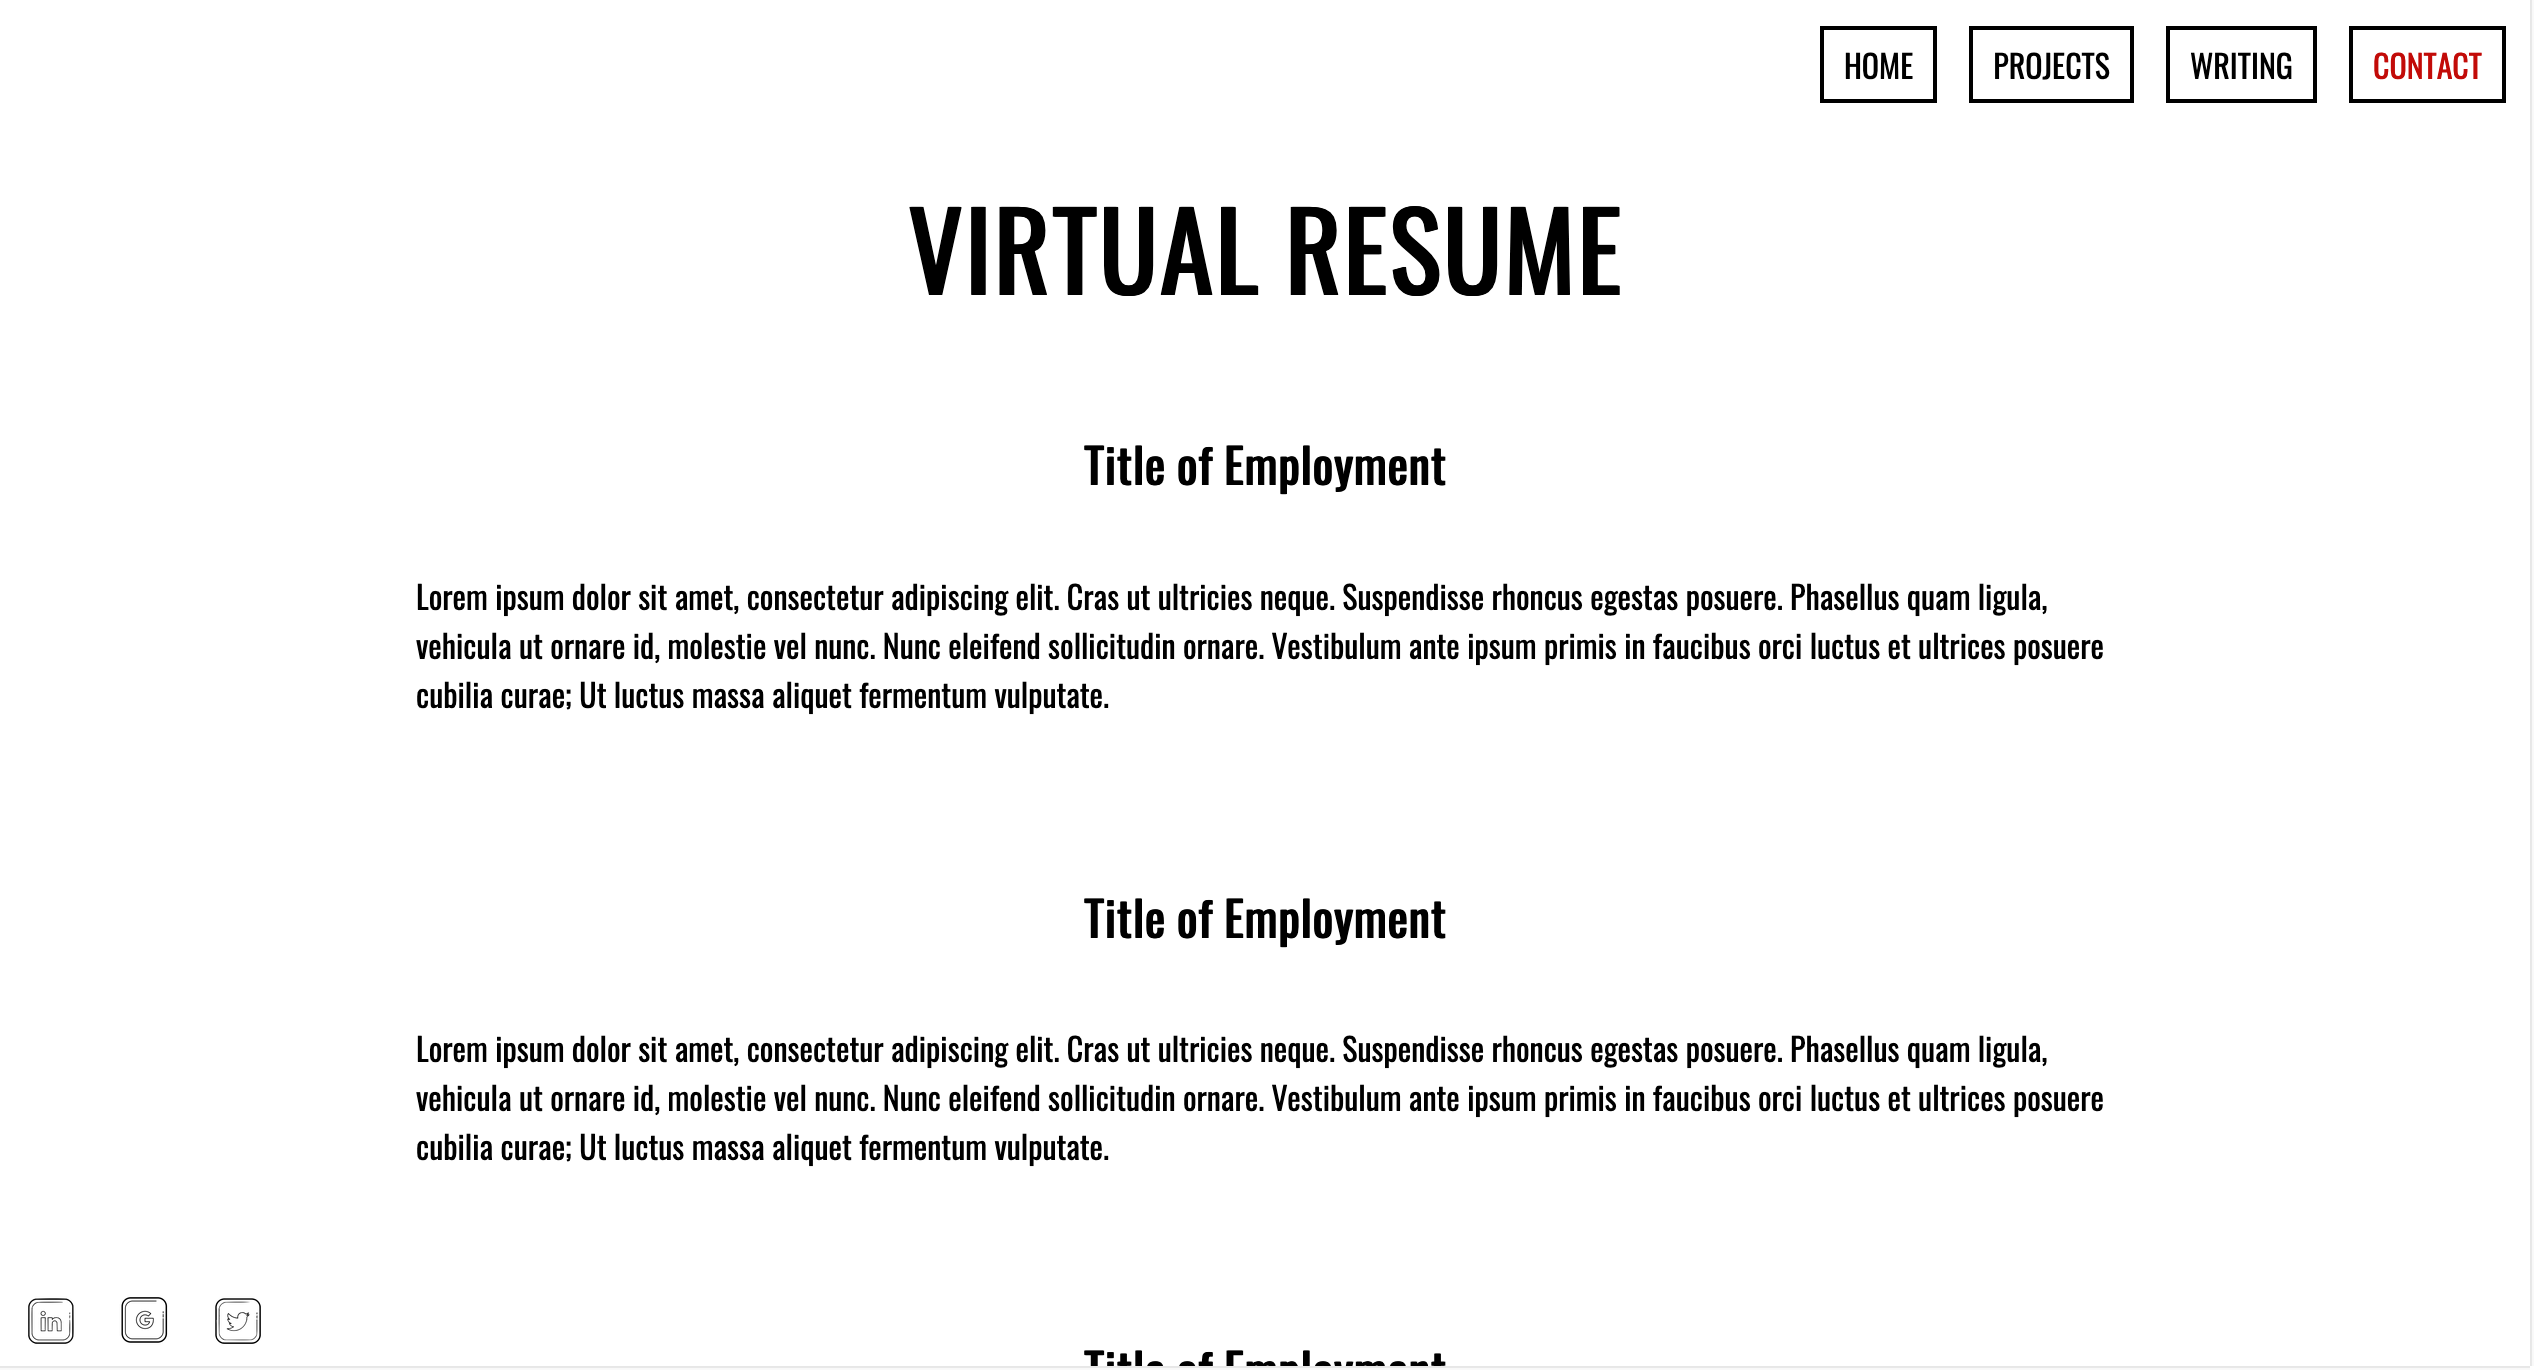
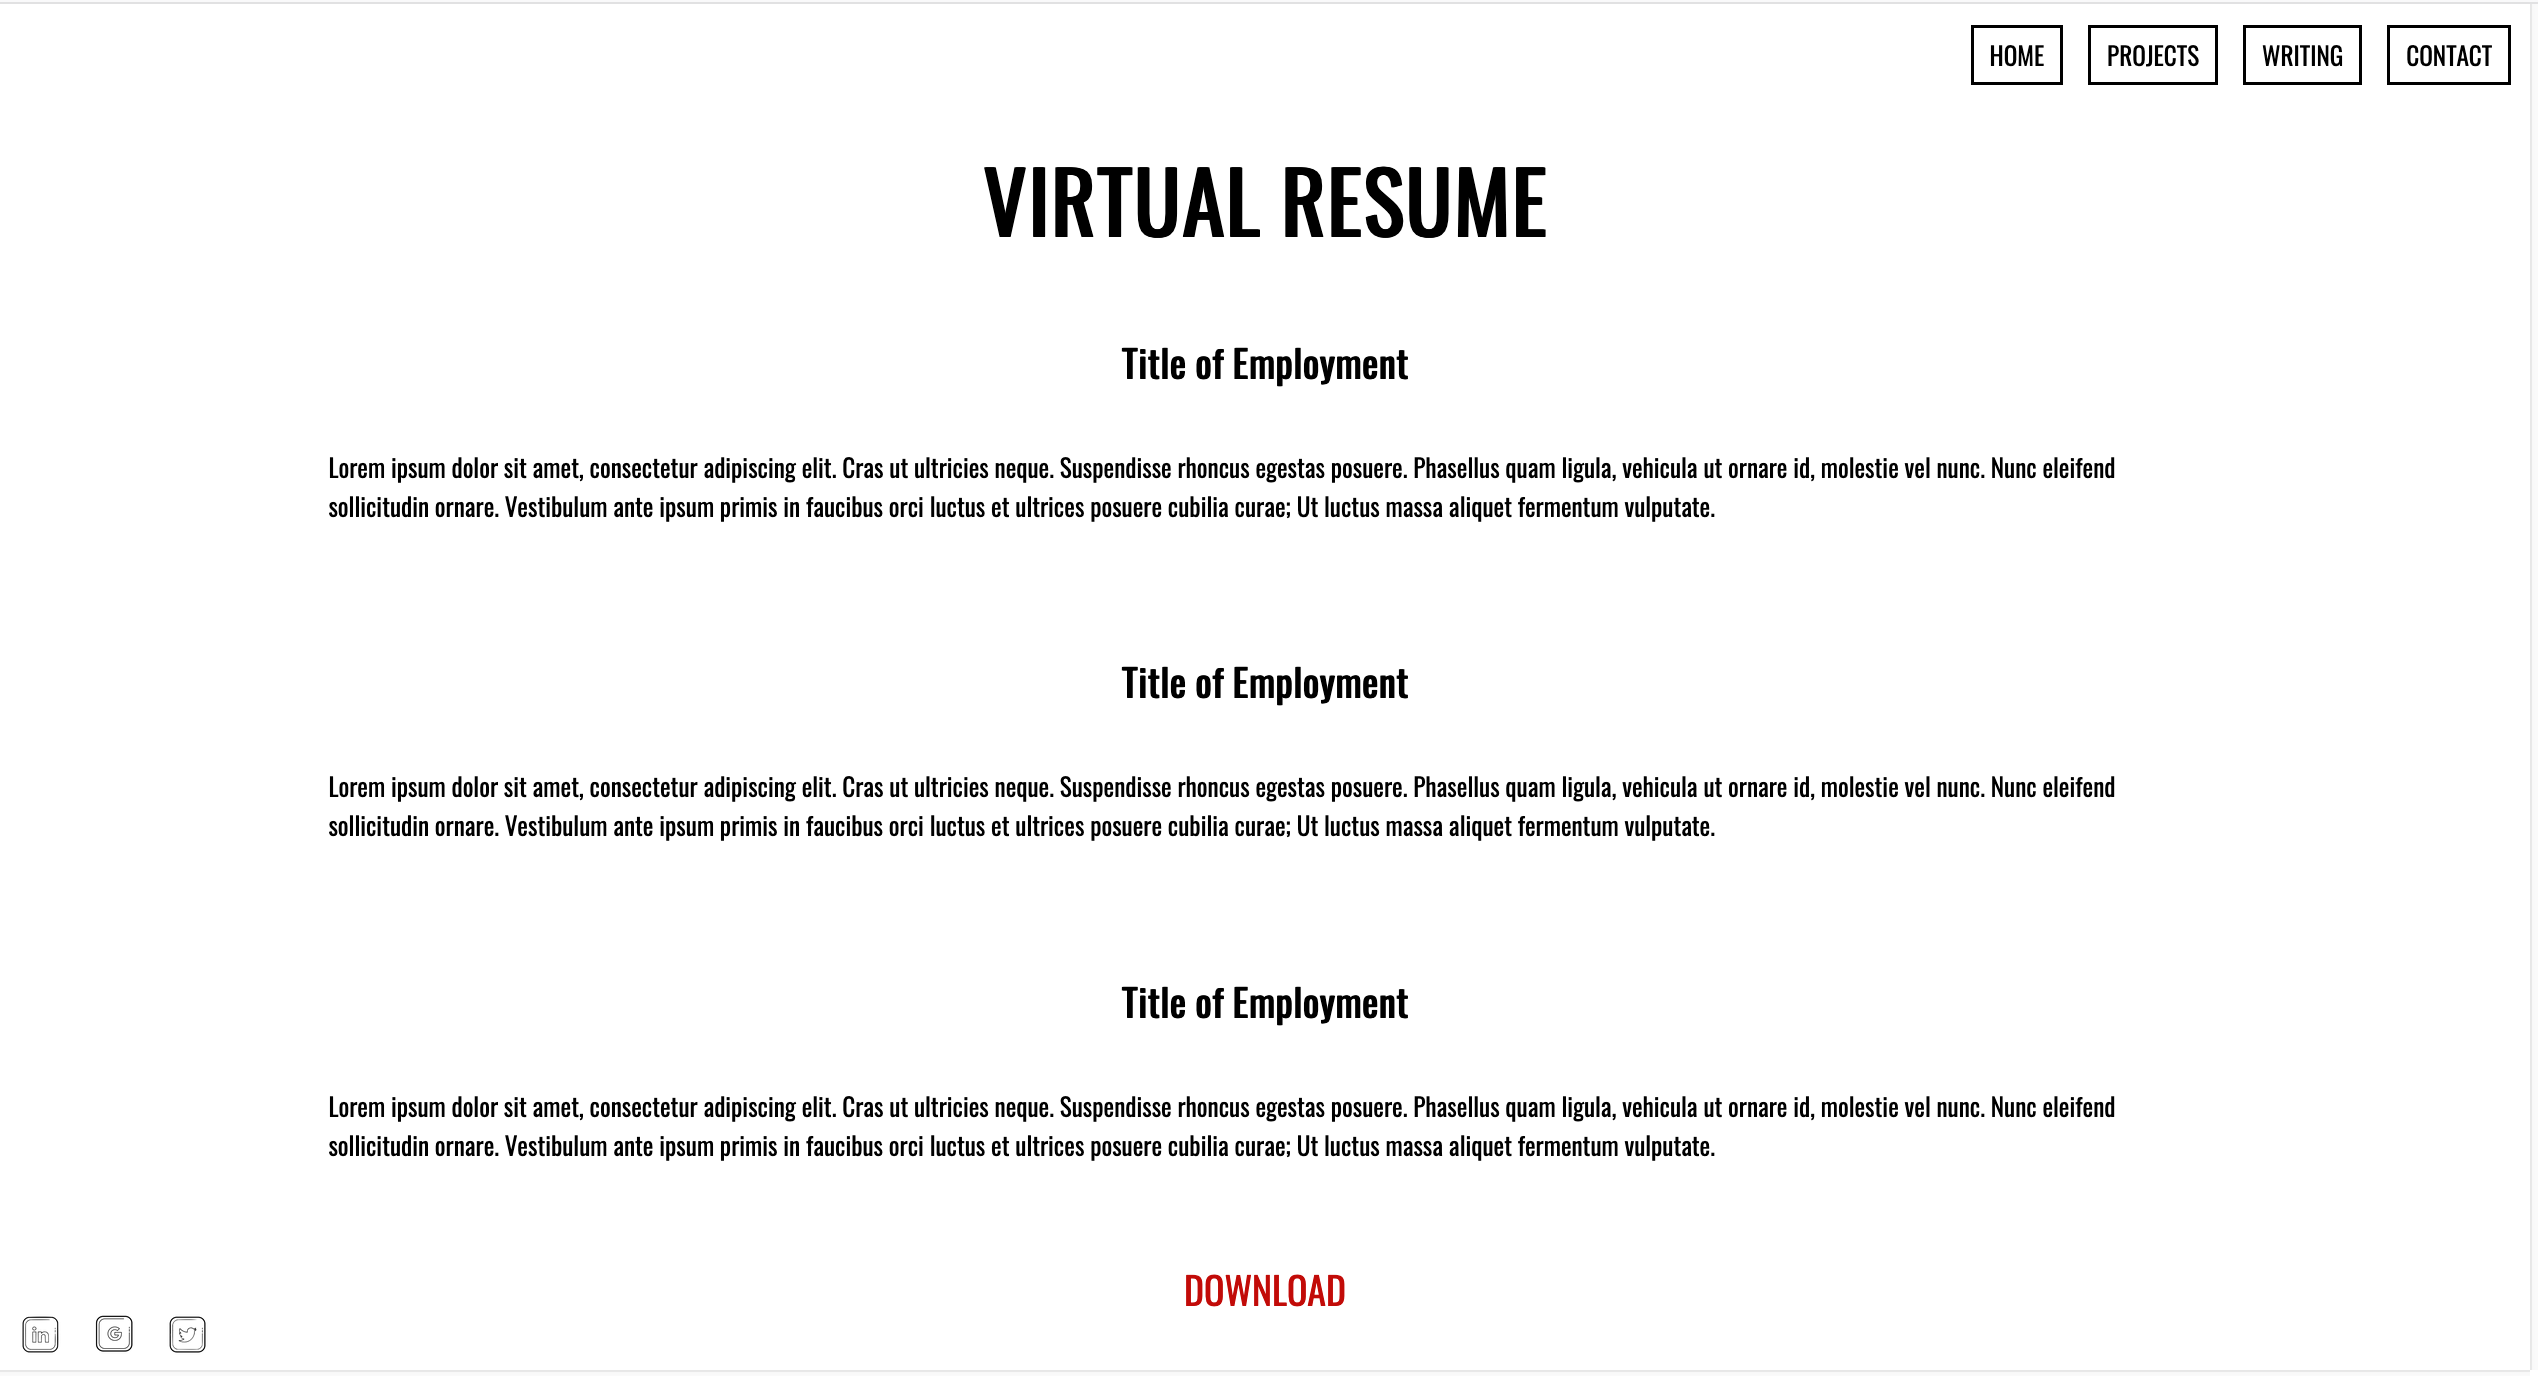
removed color spans

diff --git a/src/index.html b/src/index.html
@@ -2,14 +2,14 @@
 <html>
   <head>
     <title>Home | Rebekah Heal</title>
-    <link rel="stylesheet" href="./styles.css">
-    <link href="https://fonts.googleapis.com/css2?family=Bebas+Neue&display=swap" rel="stylesheet">
+    <link rel="stylesheet" href="./styles.css"/>
+    <link href="https://fonts.googleapis.com/css2?family=Bebas+Neue&display=swap" rel="stylesheet" >
     <meta name="viewport" content="width=device-width, initial-scale=1.0">
   </head>
   <body id="index">
     <nav id="navbar">
       <ul>
-        <li><a href="index.html"><span>HOME</span></a></li>
+        <li><a href="index.html">HOME</a></li>
         <li><a href="portfolio.html">PROJECTS</a></li>
         <li><a href="writing_index.html">WRITING</a></li>
         <li><a href="contact.html">CONTACT</a></li>
@@ -21,9 +21,9 @@
       </header>
       <section>
         <p class="blurb">
-          I like <span>adventuring</span>. Not too long ago my adventuring took me to China where I <span>slept on a plank
-                of wood</span> for a year while learning martial arts. My current adventures are on a much smaller scale and tend to involve
-                <span>exploring</span> new places via motorbike, reading (<span>mind adventures</span>), and trying new activities.
+          I like adventuring. Not too long ago my adventuring took me to China where I slept on a plank
+                of wood for a year while learning martial arts. My current adventures are on a much smaller scale and tend to involve
+                exploring new places via motorbike, reading (mind adventures), and trying new activities.
         </p>
       </section>
   </main>

diff --git a/src/portfolio.html b/src/portfolio.html
@@ -10,7 +10,7 @@
     <nav id="navbar">
       <ul>
         <li><a href="index.html">HOME</a></li>
-        <li><a href="portfolio.html"><span>PROJECTS</span></a></li>
+        <li><a href="portfolio.html">PROJECTS</a></li>
         <li><a href="writing_index.html">WRITING</a></li>
         <li><a href="contact.html">CONTACT</a></li>
       </ul>

diff --git a/src/writing_index.html b/src/writing_index.html
@@ -11,7 +11,7 @@
       <ul>
         <li><a href="index.html">HOME</a></li>
         <li><a href="portfolio.html">PROJECTS</a></li>
-        <li><a href="writing_index.html"><span>WRITING</span></a></li>
+        <li><a href="writing_index.html">WRITING</a></li>
         <li><a href="contact.html">CONTACT</a></li>
       </ul>
     </nav>

diff --git a/src/contact.html b/src/contact.html
@@ -12,7 +12,7 @@
         <li><a href="index.html">HOME</a></li>
         <li><a href="portfolio.html">PROJECTS</a></li>
         <li><a href="writing_index.html">WRITING</a></li>
-        <li><a href="contact.html"><span>CONTACT</span></a></li>
+        <li><a href="contact.html">CONTACT</a></li>
       </ul>
     </nav>
     <header>

diff --git a/src/styles.css b/src/styles.css
@@ -72,11 +72,6 @@ h1 {
   left: 0;
 }
 
-/* span {
-  color: #c20b08;
-} */
-
-
 footer#links img {
   width: 35px;
   height: 35px;
